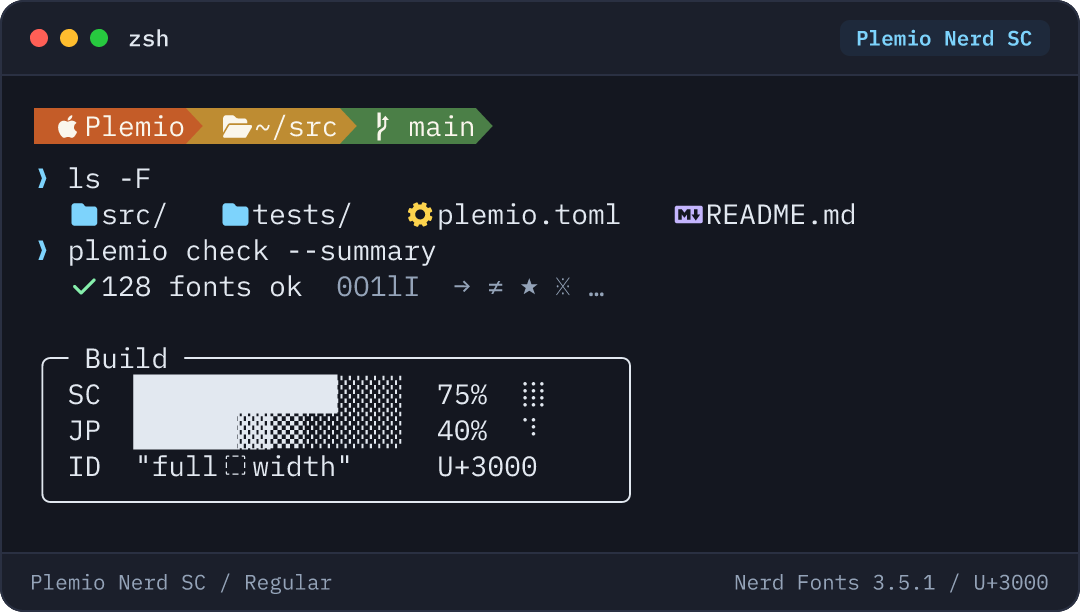
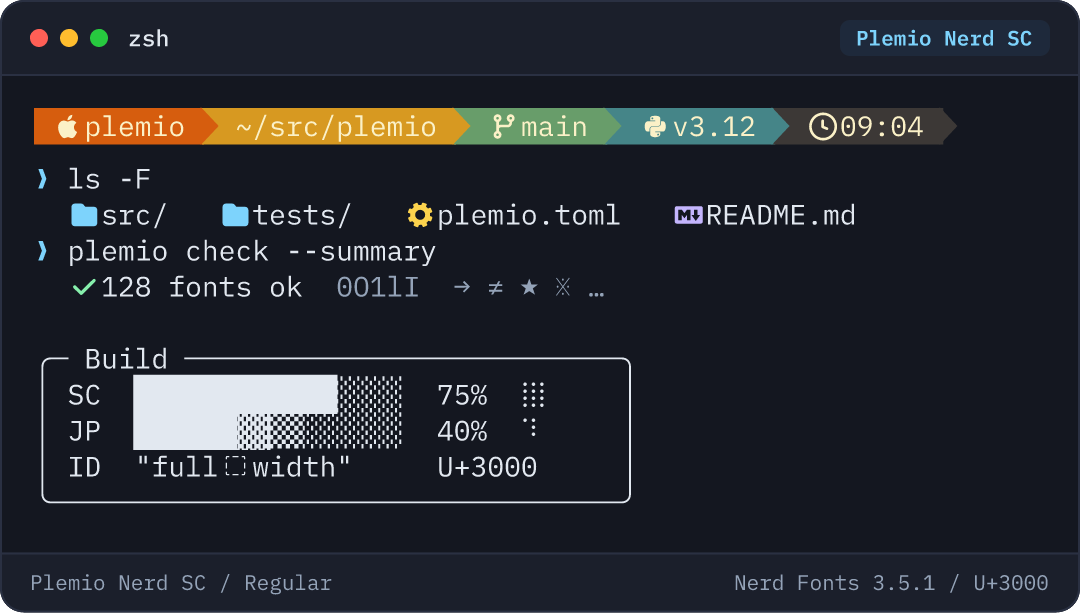
docs(specimen): restyle terminal prompt and remove Powerline seams

diff --git a/src/plemio/specimen.py b/src/plemio/specimen.py
@@ -60,9 +60,7 @@ class Theme:
     type_name: str
     string: str
     green: str
-    prompt_a: tuple[str, str]
-    prompt_b: tuple[str, str]
-    prompt_c: tuple[str, str]
+    prompt: tuple[tuple[str, str], ...]
 
 
 LIGHT = Theme(
@@ -78,9 +76,13 @@ LIGHT = Theme(
     type_name="#B45309",
     string="#047857",
     green="#15803D",
-    prompt_a=("#C2410C", "#FFFFFF"),
-    prompt_b=("#B45309", "#FFFFFF"),
-    prompt_c=("#15803D", "#FFFFFF"),
+    prompt=(
+        ("#C2410C", "#FFFFFF"),
+        ("#B45309", "#FFFFFF"),
+        ("#15803D", "#FFFFFF"),
+        ("#0E7490", "#FFFFFF"),
+        ("#475569", "#FFFFFF"),
+    ),
 )
 
 DARK = Theme(
@@ -96,9 +98,13 @@ DARK = Theme(
     type_name="#FCD34D",
     string="#86EFAC",
     green="#86EFAC",
-    prompt_a=("#C45C28", "#FAF6EC"),
-    prompt_b=("#BE8C32", "#FAF6EC"),
-    prompt_c=("#4B7F47", "#FAF6EC"),
+    prompt=(
+        ("#D65D0E", "#FBF1C7"),
+        ("#D79921", "#FBF1C7"),
+        ("#689D6A", "#FBF1C7"),
+        ("#458588", "#FBF1C7"),
+        ("#3C3836", "#FBF1C7"),
+    ),
 )
 
 
@@ -519,11 +525,12 @@ def _editor_commands(region: str, output_path: Path) -> list[dict]:
     return commands
 
 
-def _terminal_commands(region: str, output_path: Path) -> list[dict]:
+def _terminal_commands(config: Config, region: str, output_path: Path) -> list[dict]:
     theme = DARK
     name = "terminal"
     family = f"Plemio Nerd {region}"
     font_size = 14
+    cell = font_size * config.variants["nerd"].half_width / 1000
     line_height = 18.2
     commands, body_as = _window_shell(
         name,
@@ -535,94 +542,63 @@ def _terminal_commands(region: str, output_path: Path) -> list[dict]:
         status_right="Nerd Fonts 3.5.1 / U+3000",
         font_family=family,
     )
+    labels = (
+        "\U000f0035 plemio",
+        "~/src/plemio",
+        "\uf418 main",
+        "\ue73c v3.12",
+        "\uf43a 09:04",
+    )
+    segments = list(zip(labels, theme.prompt, strict=True))
     prompt_as = f"{name}_prompt"
+    prompt_runs: list[tuple[str, str, str]] = []
+    rects: list[tuple[int, int, str]] = []
+    start = 0
+    for idx, (label, (bg, fg)) in enumerate(segments):
+        lead = "" if idx == 0 else " "
+        arrow = start + display_cells(label) + 2 + len(lead)
+        rects.append((start, arrow, bg))
+        prompt_runs += [(f"{lead}{label} ", fg, "Regular"), ("\ue0b0", bg, "Regular")]
+        start = arrow
+    # Each background runs 1px under the next arrow so anti-aliased edges never leave a seam.
     prompt_cmds: list[dict] = [
         {
             "command": "frame.create",
             "as": prompt_as,
             "params": {
                 "parent": {"$ref": body_as},
-                "props": {
-                    "fill": "none",
-                    "layout": "horizontal",
-                    "sizingH": "hug",
-                    "sizingV": "hug",
-                    "gap": 0,
-                    "crossAlign": "center",
-                },
+                "width": (start + 1) * cell,
+                "height": line_height,
+                "props": {"fill": "none", "clipsContent": False},
             },
-        }
+        },
+        *(
+            {
+                "command": "node.create",
+                "params": {
+                    "type": "rectangle",
+                    "parent": {"$ref": prompt_as},
+                    "x": first * cell,
+                    "y": 0,
+                    "width": (last - first) * cell + 1,
+                    "height": line_height,
+                    "props": {"fill": bg},
+                },
+            }
+            for first, last, bg in rects
+        ),
     ]
-    segments = [
-        (" \uf179 Plemio ", theme.prompt_a),
-        (" \uf07c ~/src ", theme.prompt_b),
-        (" \ue0a0 main ", theme.prompt_c),
-    ]
-    for idx, (label, (bg, fg)) in enumerate(segments):
-        seg_as = f"{name}_seg{idx}"
-        next_bg = segments[idx + 1][1][0] if idx + 1 < len(segments) else "none"
-        prompt_cmds.extend(
-            [
-                {
-                    "command": "frame.create",
-                    "as": seg_as,
-                    "params": {
-                        "parent": {"$ref": prompt_as},
-                        "props": {
-                            "fill": bg,
-                            "layout": "horizontal",
-                            "sizingH": "hug",
-                            "sizingV": "hug",
-                            "padding": 0,
-                        },
-                    },
-                },
-                {
-                    "command": "node.create",
-                    "params": {
-                        "type": "text",
-                        "parent": {"$ref": seg_as},
-                        "text": label,
-                        "props": {
-                            "fontFamily": family,
-                            "fontStyle": "Regular",
-                            "fontSize": font_size,
-                            "lineHeight": line_height,
-                            "fill": fg,
-                        },
-                    },
-                },
-                {
-                    "command": "frame.create",
-                    "as": f"{seg_as}_tip",
-                    "params": {
-                        "parent": {"$ref": prompt_as},
-                        "props": {
-                            "fill": next_bg,
-                            "layout": "horizontal",
-                            "sizingH": "hug",
-                            "sizingV": "hug",
-                            "padding": 0,
-                        },
-                    },
-                },
-                {
-                    "command": "node.create",
-                    "params": {
-                        "type": "text",
-                        "parent": {"$ref": f"{seg_as}_tip"},
-                        "text": "\ue0b0",
-                        "props": {
-                            "fontFamily": family,
-                            "fontStyle": "Regular",
-                            "fontSize": font_size,
-                            "lineHeight": line_height,
-                            "fill": bg,
-                        },
-                    },
-                },
-            ]
-        )
+    text_cmds = _styled_text_commands(
+        f"{prompt_as}_text",
+        prompt_as,
+        [prompt_runs],
+        font_family=family,
+        font_size=font_size,
+        line_height=line_height,
+        default_color=theme.text,
+    )
+    text_cmds[0]["params"] |= {"x": cell, "y": 0}
+    prompt_cmds += text_cmds
 
     other_region = _TERMINAL_PAIR.get(region, "JP")
     box_rows = boxed(
@@ -1177,7 +1153,7 @@ def _render_region_specimens(
     commands.extend(_editor_commands(region, outputs["editor"]))
     commands.extend(_weights_commands(region, outputs["weights"]))
     commands.extend(_families_commands(config, region, outputs["families"]))
-    commands.extend(_terminal_commands(region, outputs["terminal"]))
+    commands.extend(_terminal_commands(config, region, outputs["terminal"]))
     commands.extend(_symbols_commands(region, outputs["symbols"]))
 
     with tempfile.TemporaryDirectory() as tmp:
